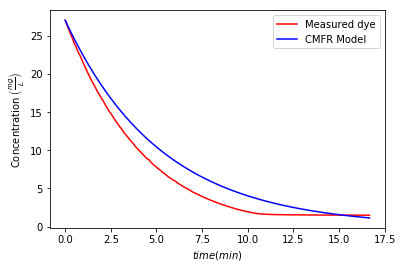
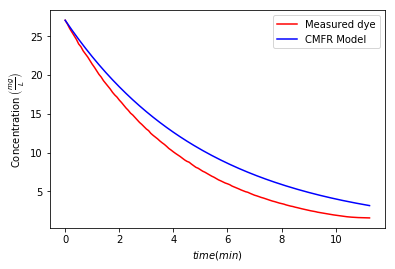
changes

diff --git a/Lab5-Reactor Characteristics/group1_lab5_report.md b/Lab5-Reactor Characteristics/group1_lab5_report.md
@@ -66,6 +66,9 @@ write a function to find F = 0.1
     DO_data[i] = DO_data[i][idx_start:idx_end]
 
 5. Evaluate whether there is any evidence of “dead volumes” or “short circuiting” in your reactor.
+
+dye comes out faster than you though it would
+
 6. Make a recommendation for the design of a full scale chlorine contact tank. As part of your recommendation discuss the parameter you chose to vary as part of your experimentation and what the optimal value was determined to be.
 
 
@@ -258,24 +261,21 @@ from sklearn import preprocessing
 t_star = trial3_time_data/trial3_theta_hydraulic
 E = trial3_concentration_data.to(u.mg/u.L)*trial3_V/trial3_AD.C_bar
 trial3_AD.C_bar
+
+
 F = integrate.cumtrapz(E,t_star, initial=0)
-F
 plt.plot(t_star,F,'g')
 plt.show()
 
-# making series from list
-series = pd.Series(EOFError)
-
-# calling method
-cumsum = series.cumsum()
-
-# display
-cumsum
 
 
+10g/L*6.5367mL/1000
 
+10*6.5367/1000
 
+trial3_V
 
+65/trial3_V
 
 #Trial 4: 4 alternating CMFRs
 #Load a data file for a reactor with baffles.
@@ -336,6 +336,19 @@ plt.ylabel(r'Concentration $\left ( \frac{mg}{L} \right )$')
 plt.legend(['Measured dye','CMFR Model', 'AD Model'])
 plt.savefig('/Users/Rosie/github/CEE4530/Lab5-Reactor Characteristics/4_CMFR_alternating.png', bbox_inches = 'tight')
 plt.show()
+
+trial4_AD.theta
+trial4_theta_hydraulic
+t_star = trial4_time_data/trial4_theta_hydraulic
+E = trial4_concentration_data.to(u.mg/u.L)*trial4_V/trial4_AD.C_bar
+trial4_AD.C_bar
+
+F = integrate.cumtrapz(E,t_star, initial=0)
+plt.plot(t_star,F,'g')
+plt.show()
+
+
+
 
 
 #Trial 5: PFR suction with 1 mL of dye
